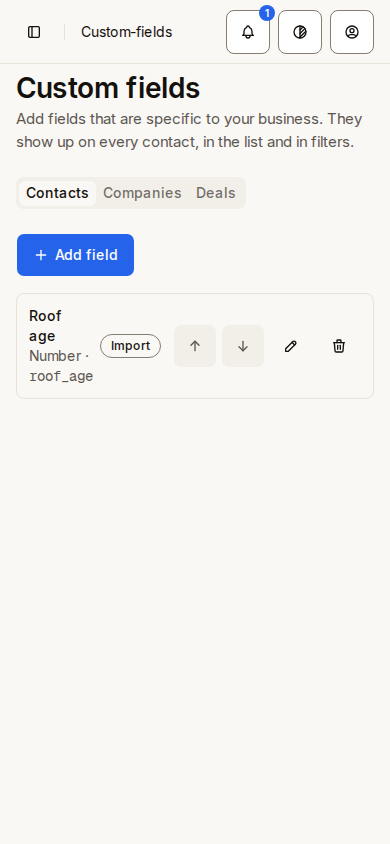
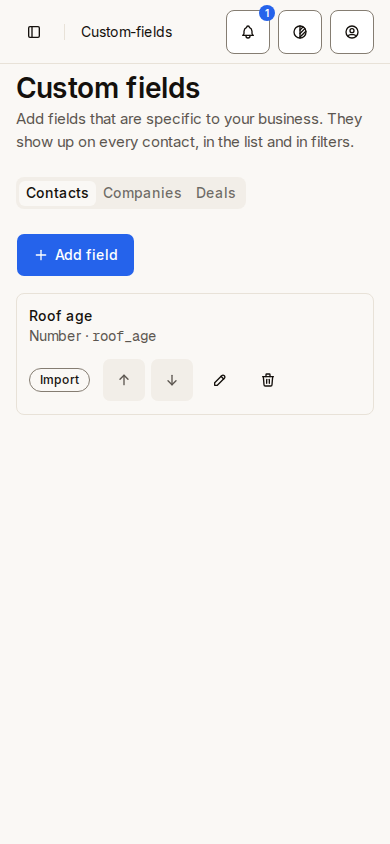
Fix custom field rows on mobile

diff --git a/crm/src/features/custom-fields/custom-fields-manager.tsx b/crm/src/features/custom-fields/custom-fields-manager.tsx
@@ -394,9 +394,9 @@ function EntityFields({
         >
           {defs.map((d, i) => (
             <li key={d.id} className='flex flex-wrap items-center gap-3 p-3'>
-              <div className='min-w-0 flex-1'>
-                <p className='font-medium'>{d.label}</p>
-                <p className='text-muted-foreground text-sm'>
+              <div className='min-w-0 basis-full sm:basis-auto sm:flex-1'>
+                <p className='font-medium break-words'>{d.label}</p>
+                <p className='text-muted-foreground text-sm break-all'>
                   {CUSTOM_FIELD_TYPE_LABELS[d.type]} · <code>{d.key}</code>
                   {d.options.length ? ` · ${d.options.length} options` : ''}
                 </p>

diff --git a/docs/coordinator/design-completion.md b/docs/coordinator/design-completion.md
@@ -16,6 +16,8 @@ For each changed route preserve existing server guards, tenant and module bounda
 
 Owned files are the Settings route and component files under `crm/src/app/dashboard/settings/`, route-specific tests/evidence, and this log. Shared shell, tokens and server contracts are out of scope. Later batches must name their files here before editing. Docs alignment follows page work.
 
+The custom-field manager at `crm/src/features/custom-fields/custom-fields-manager.tsx` is used by the Settings route and is included for a presentation-only mobile row fix; its actions and server types remain untouched.
+
 ## Status
 
 The older `docs/ui/AGENCY-DESIGN.md` describes a historical agency pass and conflicts with the newer root `DESIGN.md` on typography; use the newer redesign contract for this sequence.
@@ -25,3 +27,5 @@ The older `docs/ui/AGENCY-DESIGN.md` describes a historical agency pass and conf
 Nine client settings routes use a Settings-local redesign header; business hours have responsive rows and token-based cards, and team member names no longer collapse on mobile. Authorization, module checks, form actions and server logic are unchanged. Before/after synthetic captures at 390 and 1280 are in `docs/redesign/pr-8/`, plus a dark mobile business capture. Mobile review exposed cramped custom-field rows in the separate feature component; that component is not yet changed. The remaining Settings forms need a fuller polish and state review; this is not completion of position 8.
 
 Local build, typecheck and lint passed; unit suite passed 663 tests on retry after one worker timed out during parallel load. Browser checks passed 4/4: route overflow, mocked business save/error, dark/focus and CRM-disabled pipeline. Full integration is running. Permission-denied browser coverage, exhaustive dark/desktop visual inspection, all form error states, CI for the final commit, and remaining pages/docs remain open. Local tests use an isolated `/tmp` PostgreSQL 16 cluster and synthetic provider stubs; no production database was used.
+
+The custom-field row now gives the label a full mobile line. Build, typecheck, lint, 663 unit tests and the four Settings browser checks passed after this change. The updated mobile capture is `docs/redesign/pr-8/after-custom-fields-390.png`; full integration remains in progress.
